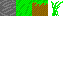
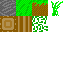
Big changes
Added trees (or rather stumps with leaves on top) and added option to disable saving

Changed region(s): [[0.0, 0.25, 0.75, 0.5]]

diff --git a/src/main.rs b/src/main.rs
@@ -11,6 +11,7 @@ use sdl2::{
 };
 use std::{
     collections::{HashMap, VecDeque},
+    env,
     fs::File,
     io::Write,
     path::Path,
@@ -331,14 +332,25 @@ impl State {
             for x in 0..CHUNK_WIDTH {
                 for y in 0..CHUNK_HEIGHT {
                     for z in 0..CHUNK_DEPTH {
-                        chunk[x][y][z] = if (y as i32) < heightmap[x][z] {
+                        let y_i32 = y as i32;
+                        chunk[x][y][z] = if y_i32 < heightmap[x][z] {
                             BlockType::Stone
-                        } else if y as i32 == heightmap[x][z] {
+                        } else if y_i32 == heightmap[x][z] {
                             BlockType::GrassBlock
-                        } else if y as i32 == heightmap[x][z] + 1
-                            && noise.get([x as f64 / 4.0, z as f64 / 4.0, y as f64 / 4.0]) > 0.3
-                        {
-                            BlockType::Grass
+                        } else if y_i32 >= heightmap[x][z] + 1 && y_i32 <= heightmap[x][z] + 5 {
+                            if noise.get([x as f64, heightmap[x][z] as f64, z as f64]) > 0.4 {
+                                if y_i32 == heightmap[x][z] + 5 {
+                                    BlockType::Leaf
+                                } else {
+                                    BlockType::Wood
+                                }
+                            } else if y_i32 == heightmap[x][z] + 1
+                                && noise.get([x as f64 / 4.0, z as f64 / 4.0, y as f64 / 4.0]) > 0.3
+                            {
+                                BlockType::Grass
+                            } else {
+                                BlockType::Air
+                            }
                         } else {
                             BlockType::Air
                         };
@@ -540,17 +552,31 @@ impl State {
                 for x in 0..CHUNK_WIDTH {
                     for y in 0..CHUNK_HEIGHT {
                         for z in 0..CHUNK_DEPTH {
-                            chunk_contents[x][y][z] = if (y as i32) < heightmap[x][z] {
+                            let y_i32 = y as i32;
+                            chunk_contents[x][y][z] = if y_i32 < heightmap[x][z] {
                                 BlockType::Stone
-                            } else if y as i32 == heightmap[x][z] {
+                            } else if y_i32 == heightmap[x][z] {
                                 BlockType::GrassBlock
-                            } else if y as i32 == heightmap[x][z] + 1
-                                && self
-                                    .noise
-                                    .get([x as f64 / 4.0, z as f64 / 4.0, y as f64 / 4.0])
-                                    > 0.3
-                            {
-                                BlockType::Grass
+                            } else if y_i32 >= heightmap[x][z] + 1 && y_i32 <= heightmap[x][z] + 5 {
+                                if self.noise.get([x as f64, heightmap[x][z] as f64, z as f64])
+                                    > 0.4
+                                {
+                                    if y_i32 == heightmap[x][z] + 5 {
+                                        BlockType::Leaf
+                                    } else {
+                                        BlockType::Wood
+                                    }
+                                } else if y_i32 == heightmap[x][z] + 1
+                                    && self.noise.get([
+                                        x as f64 / 4.0,
+                                        z as f64 / 4.0,
+                                        y as f64 / 4.0,
+                                    ]) > 0.3
+                                {
+                                    BlockType::Grass
+                                } else {
+                                    BlockType::Air
+                                }
                             } else {
                                 BlockType::Air
                             };
@@ -646,6 +672,15 @@ impl State {
 
 fn main() {
     env_logger::init();
+    let mut save = true;
+    let mut args = env::args();
+    let _path = args.next().unwrap();
+    if let Some(arg) = args.next() {
+        match &*arg {
+            "-no-save" => save = false,
+            _ => println!("Invalid argument {arg}!"),
+        }
+    }
     let sdl_context = sdl2::init().unwrap();
     let video_subsystem = sdl_context.video().unwrap();
     let mut window = video_subsystem
@@ -731,11 +766,13 @@ fn main() {
             Err(e) => eprintln!("{:?}", e),
         }
     }
-    for (location, data) in state.generated_chunkdata.lock().unwrap().iter() {
-        let location = format!("{}.bin", location.iter().join(","));
-        let path = Path::new(&location);
-        if let Ok(mut file) = File::create(path) {
-            file.write_all(&bincode::serialize(data).unwrap()).unwrap();
+    if save {
+        for (location, data) in state.generated_chunkdata.lock().unwrap().iter() {
+            let location = format!("{}.bin", location.iter().join(","));
+            let path = Path::new(&location);
+            if let Ok(mut file) = File::create(path) {
+                file.write_all(&bincode::serialize(data).unwrap()).unwrap();
+            }
         }
     }
 }

diff --git a/src/chunk.rs b/src/chunk.rs
@@ -28,6 +28,8 @@ pub enum BlockType {
     Stone,
     GrassBlock,
     Grass,
+    Wood,
+    Leaf,
 }
 
 impl BlockType {
@@ -42,13 +44,22 @@ impl BlockType {
                 [TEXTURE_WIDTH * 2.0, 0.0],
                 [0.0, 0.0],
             ],
+            BlockType::Wood => [
+                [0.0, TEXTURE_WIDTH],
+                [TEXTURE_WIDTH, TEXTURE_WIDTH],
+                [TEXTURE_WIDTH, TEXTURE_WIDTH],
+                [TEXTURE_WIDTH, TEXTURE_WIDTH],
+                [TEXTURE_WIDTH, TEXTURE_WIDTH],
+                [0.0, TEXTURE_WIDTH],
+            ],
+            BlockType::Leaf => [[TEXTURE_WIDTH * 2.0, TEXTURE_WIDTH]; 6],
             BlockType::Grass => [[TEXTURE_WIDTH * 3.0, 0.0]; 6],
             _ => panic!("This is not supposed to be called!"),
         }
     }
     pub fn is_solid(&self) -> bool {
         match self {
-            BlockType::Air | BlockType::Grass => false,
+            BlockType::Air | BlockType::Grass | BlockType::Leaf => false,
             _ => true,
         }
     }
@@ -342,7 +353,10 @@ pub fn generate_chunk_mesh(
                                 BOTTOM_LEFT[0] + tex_offset[0],
                                 BOTTOM_LEFT[1] + tex_offset[1],
                             ],
-                            brightness: if y != 0 && chunk[x][y - 1][z].is_solid() {
+                            brightness: if y != 0
+                                && x != CHUNK_WIDTH - 1
+                                && chunk[x + 1][y - 1][z].is_solid()
+                            {
                                 0.5
                             } else {
                                 SIDE_BRIGHTNESS
@@ -354,7 +368,10 @@ pub fn generate_chunk_mesh(
                                 BOTTOM_RIGHT[0] + tex_offset[0],
                                 BOTTOM_RIGHT[1] + tex_offset[1],
                             ],
-                            brightness: if y != 0 && chunk[x][y - 1][z].is_solid() {
+                            brightness: if y != 0
+                                && x != CHUNK_WIDTH - 1
+                                && chunk[x + 1][y - 1][z].is_solid()
+                            {
                                 0.5
                             } else {
                                 SIDE_BRIGHTNESS
@@ -402,7 +419,7 @@ pub fn generate_chunk_mesh(
                                 BOTTOM_LEFT[0] + tex_offset[0],
                                 BOTTOM_LEFT[1] + tex_offset[1],
                             ],
-                            brightness: if y != 0 && chunk[x][y - 1][z].is_solid() {
+                            brightness: if y != 0 && z != 0 && chunk[x][y - 1][z - 1].is_solid() {
                                 0.5
                             } else {
                                 BACK_BRIGHTNESS
@@ -414,7 +431,7 @@ pub fn generate_chunk_mesh(
                                 BOTTOM_RIGHT[0] + tex_offset[0],
                                 BOTTOM_RIGHT[1] + tex_offset[1],
                             ],
-                            brightness: if y != 0 && chunk[x][y - 1][z].is_solid() {
+                            brightness: if y != 0 && z != 0 && chunk[x][y - 1][z - 1].is_solid() {
                                 0.5
                             } else {
                                 BACK_BRIGHTNESS
